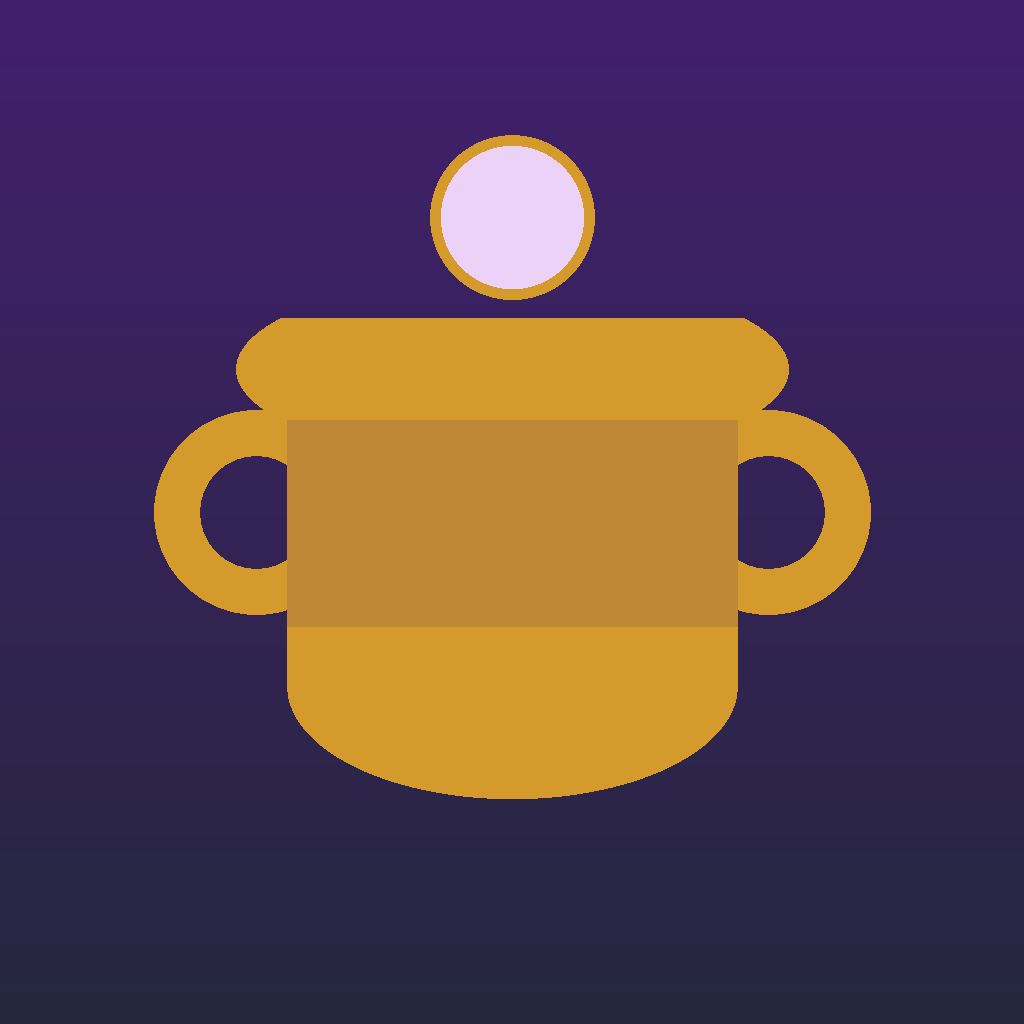
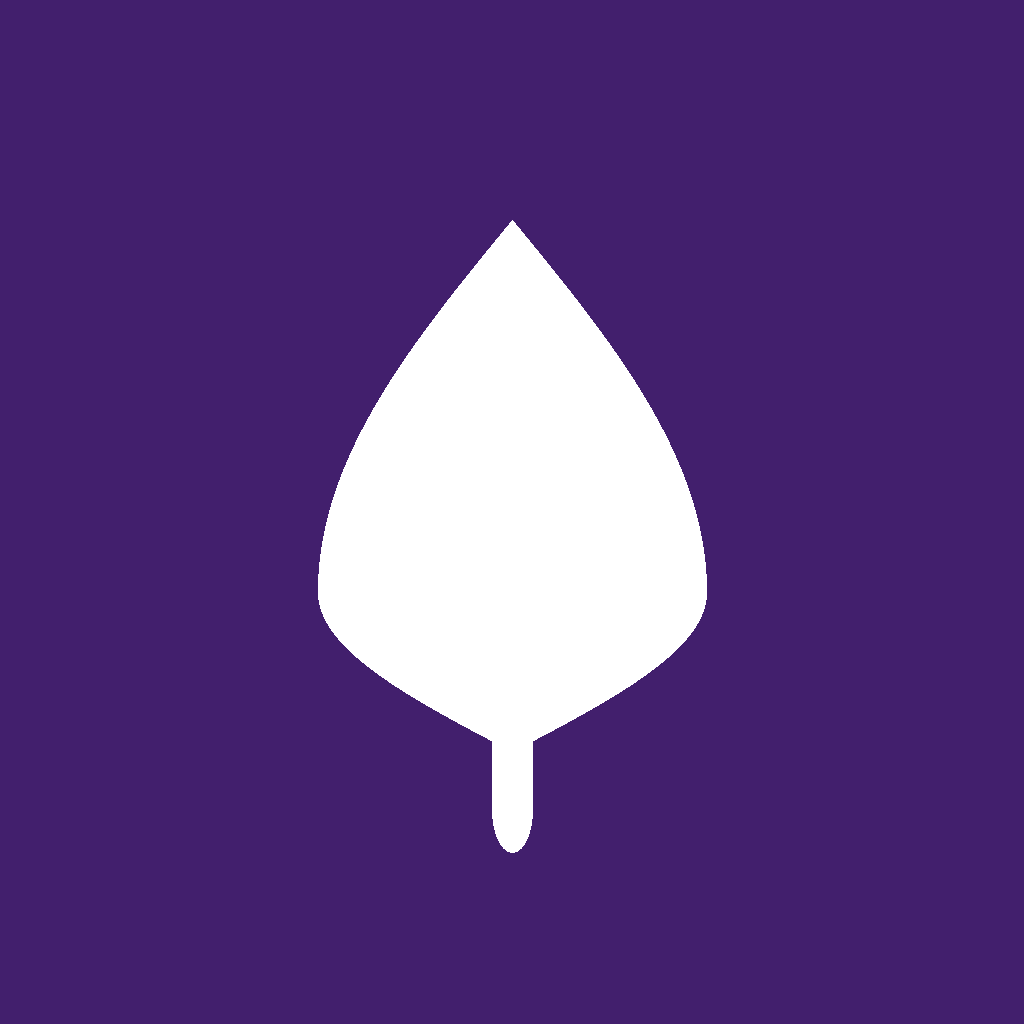
feat: update color scheme to use white for surface elements

diff --git a/mobile/scripts/generate-icon.js b/mobile/scripts/generate-icon.js
@@ -5,9 +5,8 @@ const path = require('path');
 const { PNG } = require('pngjs');
 
 // Brand colors
-const FOREST = [66, 31, 109];   // #421F6D
-const GOLD = [212, 155, 44];    // #D49B2C
-const CREAM = [237, 210, 248]; // #EDD2F8
+const PURPLE = [66, 31, 109];   // #421F6D
+const WHITE = [255, 255, 255];  // #FFFFFF
 
 function mix(a, b, t) {
   return [
@@ -18,26 +17,22 @@ function mix(a, b, t) {
 }
 
 /**
- * Draw the Roda mark: a stylized gold pot (rounded body + rim + two handles)
- * centered on a forest-green field. `transparentBg` leaves the background clear
- * (for Android adaptive foreground).
+ * Draw a white leaf centered on a purple field.
+ * The leaf is a simple teardrop/leaf shape with a stem.
  */
 function renderIcon(size, opts = {}) {
-  const { transparentBg = false, bg = FOREST, scale = 1 } = opts;
+  const { transparentBg = false, bg = PURPLE, scale = 1 } = opts;
   const png = new PNG({ width: size, height: size });
   const cx = size / 2;
   const cy = size / 2;
 
-  // Pot geometry (relative to size)
-  const bodyW = size * 0.44 * scale;
-  const bodyH = size * 0.40 * scale;
-  const bodyTop = cy - bodyH * 0.30;
-  const bodyBottom = bodyTop + bodyH;
-  const rimW = size * 0.54 * scale;
-  const rimH = size * 0.10 * scale;
-  const rimTop = bodyTop - rimH * 0.7;
-  const handleR = size * 0.10 * scale;
-  const fillTopRatio = 0.42; // gold "savings" fill rises from bottom
+  // Leaf geometry
+  const leafW = size * 0.38 * scale;
+  const leafH = size * 0.52 * scale;
+  const leafTop = cy - leafH * 0.55;
+  const leafBottom = leafTop + leafH;
+  const stemWidth = size * 0.04 * scale;
+  const stemHeight = size * 0.14 * scale;
 
   for (let y = 0; y < size; y++) {
     for (let x = 0; x < size; x++) {
@@ -49,73 +44,52 @@ function renderIcon(size, opts = {}) {
       if (transparentBg) {
         alpha = 0;
       } else {
-        // subtle vertical gradient on the forest field
-        const t = y / size;
-        color = mix(bg, [18, 44, 31], t * 0.6);
+        color = bg;
         alpha = 255;
       }
 
-      const dxBody = x - cx;
+      const dx = x - cx;
 
-      // Handles (rings on each side of the body)
-      const handleY = bodyTop + bodyH * 0.30;
-      for (const side of [-1, 1]) {
-        const hx = cx + side * (bodyW / 2 + handleR * 0.3);
-        const d = Math.sqrt((x - hx) ** 2 + (y - handleY) ** 2);
-        if (d <= handleR && d >= handleR * 0.55) {
-          color = GOLD;
-          alpha = 255;
-        }
-      }
-
-      // Pot body: rounded-bottom capsule
-      const halfBodyW = bodyW / 2;
-      if (y >= bodyTop && y <= bodyBottom && Math.abs(dxBody) <= halfBodyW) {
-        // round the bottom corners
-        const bottomCurve = bodyBottom - halfBodyW * 0.5;
-        let inside = true;
-        if (y > bottomCurve) {
-          const ry = halfBodyW * 0.5;
-          const ny = (y - bottomCurve) / ry;
-          const maxX = halfBodyW * Math.sqrt(Math.max(0, 1 - ny * ny));
-          inside = Math.abs(dxBody) <= maxX;
-        }
-        if (inside) {
-          // gold fill vs darker pot wall
-          const fillLine = bodyBottom - bodyH * fillTopRatio;
-          if (y >= fillLine) {
-            color = GOLD; // savings fill
-          } else {
-            color = mix(GOLD, FOREST, 0.15); // pot interior (slightly muted gold)
+      // Stem (thin rectangle below leaf)
+      const stemTop = leafBottom - leafH * 0.08;
+      const stemBottom = stemTop + stemHeight;
+      if (y >= stemTop && y <= stemBottom && Math.abs(dx) <= stemWidth / 2) {
+        // Round the bottom of the stem
+        const distFromBottom = (stemBottom - y) / stemHeight;
+        if (distFromBottom >= 0 && distFromBottom <= 0.3) {
+          const curve = 1 - (distFromBottom / 0.3);
+          const maxX = (stemWidth / 2) * Math.sqrt(Math.max(0, 1 - curve * curve));
+          if (Math.abs(dx) <= maxX) {
+            color = WHITE;
+            alpha = 255;
           }
-        }
-      }
-
-      // Rim (rounded bar across the top of the body)
-      if (y >= rimTop && y <= rimTop + rimH && Math.abs(dxBody) <= rimW / 2) {
-        const ry = rimH / 2;
-        const ny = (y - (rimTop + ry)) / ry;
-        const maxX = (rimW / 2) * Math.sqrt(Math.max(0, 1 - ny * ny * 0.3));
-        if (Math.abs(dxBody) <= maxX) {
-          color = GOLD;
+        } else {
+          color = WHITE;
           alpha = 255;
         }
       }
 
-      // Coin above the rim (small circle)
-      const coinR = size * 0.07 * scale;
-      const coinY = rimTop - coinR * 1.4;
-      const dc = Math.sqrt((x - cx) ** 2 + (y - coinY) ** 2);
-      if (dc <= coinR) {
-        color = CREAM;
-        alpha = 255;
-      } else if (dc <= coinR * 1.15) {
-        color = GOLD;
-        alpha = 255;
+      // Leaf body (teardrop shape)
+      if (y >= leafTop && y <= leafBottom) {
+        const t = (y - leafTop) / leafH;
+        // Width varies: narrow at top, widest at ~70%, then curves to point
+        let widthFactor;
+        if (t < 0.7) {
+          // expanding part
+          widthFactor = Math.sin((t / 0.7) * Math.PI * 0.5);
+        } else {
+          // tapering to point
+          widthFactor = Math.cos(((t - 0.7) / 0.3) * Math.PI * 0.5);
+        }
+        const halfW = (leafW / 2) * widthFactor;
+
+        if (Math.abs(dx) <= halfW) {
+          color = WHITE;
+          alpha = 255;
+        }
       }
 
       if (color === null) {
-        // leave background (already handled) — but ensure write
         if (transparentBg) {
           png.data[idx] = 0;
           png.data[idx + 1] = 0;
@@ -123,7 +97,7 @@ function renderIcon(size, opts = {}) {
           png.data[idx + 3] = 0;
           continue;
         }
-        color = mix(bg, [18, 44, 31], (y / size) * 0.6);
+        color = bg;
       }
 
       png.data[idx] = color[0];
@@ -141,11 +115,11 @@ function save(png, file) {
   console.log('wrote', file);
 }
 
-// App icon (1024) — full forest bg
+// App icon (1024) — full purple bg
 save(renderIcon(1024, { transparentBg: false }), 'icon.png');
 // Adaptive icon foreground (1024) — transparent bg, larger safe-area scale
 save(renderIcon(1024, { transparentBg: true, scale: 0.78 }), 'adaptive-icon.png');
-// Splash (1024) — forest bg, smaller mark
+// Splash (1024) — purple bg, smaller mark
 save(renderIcon(1024, { transparentBg: true, scale: 0.9 }), 'splash-icon.png');
 // Favicon (48)
 save(renderIcon(48, { transparentBg: false }), 'favicon.png');

diff --git a/mobile/components/AuthGate.tsx b/mobile/components/AuthGate.tsx
@@ -238,7 +238,7 @@ export function AuthGate() {
   if (isTransaction) {
     return (
       <Modal visible animationType="slide" presentationStyle="pageSheet" onRequestClose={onAuthCancel}>
-        <SafeAreaView style={{ flex: 1, backgroundColor: '#EDD2F8' }}>
+        <SafeAreaView style={{ flex: 1, backgroundColor: '#FFFFFF' }}>
           <UnlockScreen
             onSuccess={onAuthSuccess}
             onCancel={onAuthCancel}
@@ -252,7 +252,7 @@ export function AuthGate() {
   // App-open gate — full screen, no dismiss
   return (
     <Modal visible animationType="fade" statusBarTranslucent>
-      <SafeAreaView style={{ flex: 1, backgroundColor: '#EDD2F8' }}>
+      <SafeAreaView style={{ flex: 1, backgroundColor: '#FFFFFF' }}>
         {!isSetup
           ? <SetupScreen onDone={onAuthSuccess} />
           : <UnlockScreen onSuccess={onAuthSuccess} onCancel={onAuthCancel} isTransaction={false} />

diff --git a/mobile/components/AjoPot.tsx b/mobile/components/AjoPot.tsx
@@ -1,4 +1,4 @@
-nimport React, { useEffect } from 'react';
+import React, { useEffect } from 'react';
 import { View, StyleSheet, Text } from 'react-native';
 import Animated, { useSharedValue, useAnimatedStyle, withTiming, Easing } from 'react-native-reanimated';
 import { COLORS } from '../constants/theme';

diff --git a/mobile/app/onboarding/index.tsx b/mobile/app/onboarding/index.tsx
@@ -9,7 +9,7 @@ import { useRouter } from 'expo-router';
 import { Ionicons } from '@expo/vector-icons';
 import { useWallet } from '../../providers/WalletContext';
 
-const CREAM  = '#EDD2F8';
+const CREAM  = '#FFFFFF';
 const FOREST = '#421F6D';
 const GOLD   = '#FFFFFF';
 

diff --git a/mobile/constants/theme.ts b/mobile/constants/theme.ts
@@ -1,6 +1,6 @@
 export const COLORS = {
   primary:  '#421F6D', // Deep Purple
-  surface:  '#EDD2F8', // Light Lavender
+  surface:  '#FFFFFF', // White
   surfaceCard: '#EDE6DC', // Warm Sand (cards)
   accent:   '#FFFFFF', // White
   alert:    '#C1440E', // Terracotta

diff --git a/mobile/tailwind.config.js b/mobile/tailwind.config.js
@@ -10,7 +10,7 @@ module.exports = {
     extend: {
       colors: {
         primary:  "#421F6D",
-        surface:  "#EDD2F8",
+        surface:  "#FFFFFF",
         "surface-card": "#EDE6DC",
         accent:   "#FFFFFF",
         alert:    "#C1440E",
